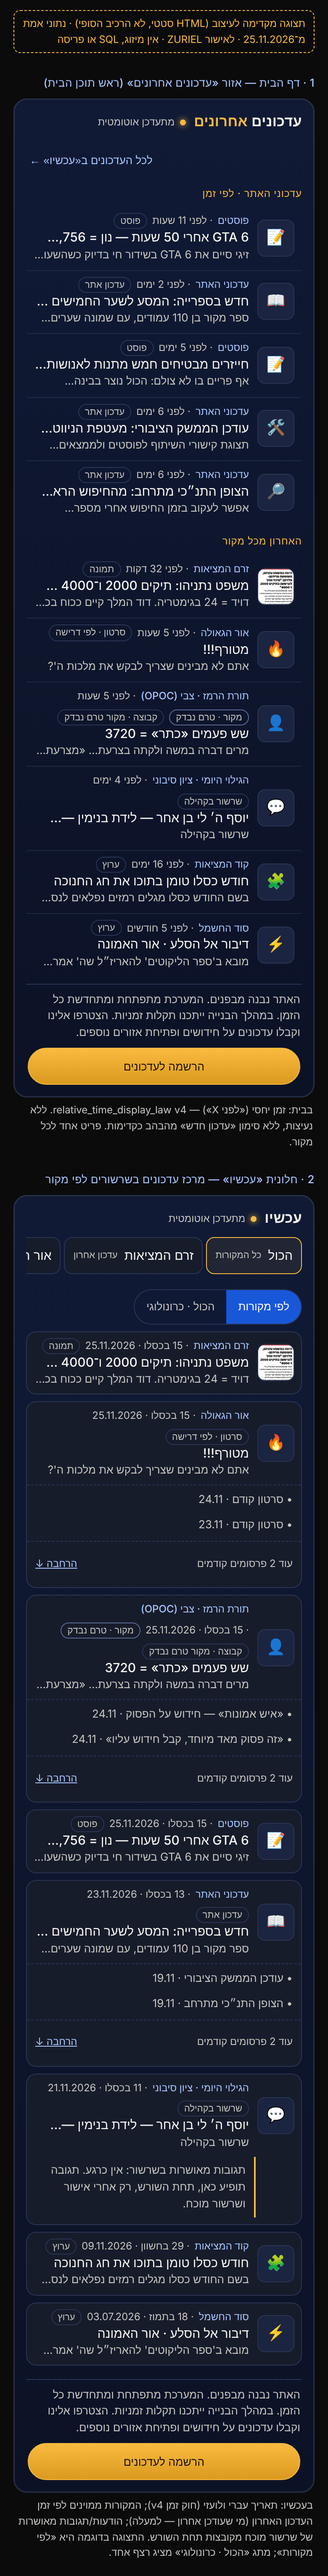
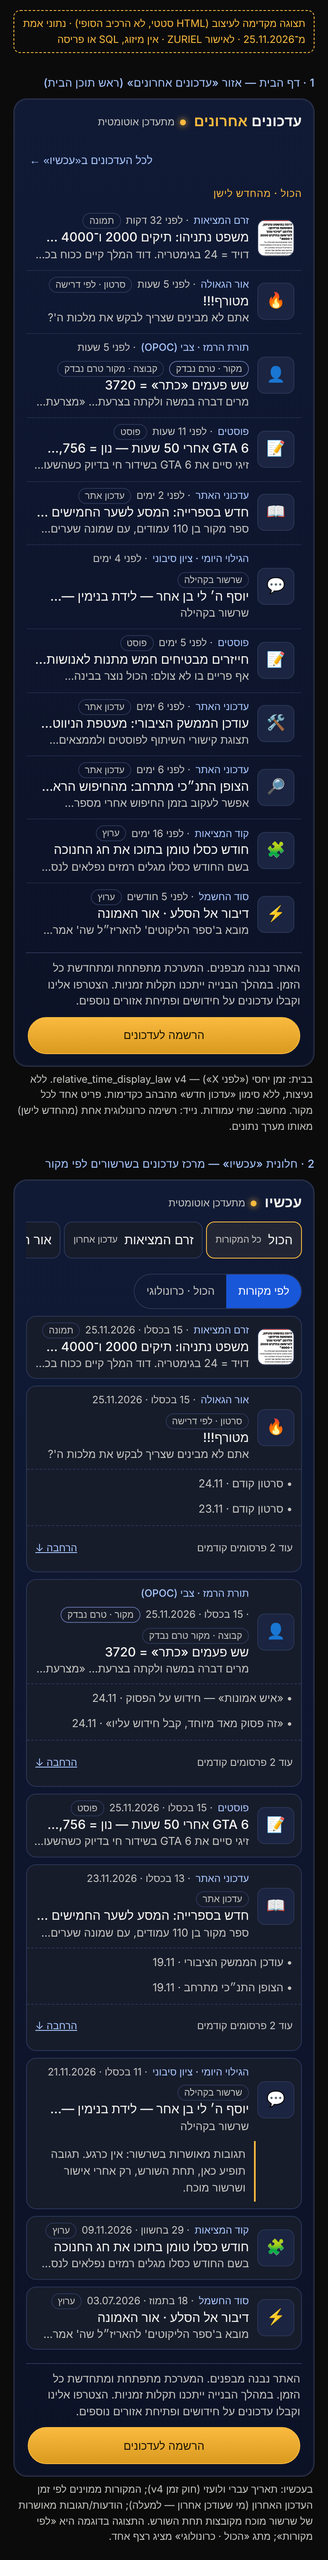
docs: Home mobile = one chronological list; desktop keeps two columns (ZURIEL clarification 25.11.2026)
Claude-Session: https://claude.ai/code/session_01H7739JjrHjUdzjPxUpre3R

diff --git a/docs/reviews/home-now-unified-20261125/preview.html b/docs/reviews/home-now-unified-20261125/preview.html
@@ -20,6 +20,7 @@ h2.pv-h{font-size:13px;color:var(--act);font-weight:500;margin:26px 0 8px;letter
 .live i{width:7px;height:7px;border-radius:50%;background:var(--gold);box-shadow:0 0 8px var(--gold)}
 .more{margin-inline-start:auto;font-size:13px;color:var(--act);background:none;border:0;cursor:pointer;min-height:44px;padding:0 4px}
 .cols{display:grid;grid-template-columns:1fr 1fr;gap:12px}
+.mob{display:none}
 .col>h4{margin:0 0 6px;font-size:12px;font-weight:500;color:var(--gold);letter-spacing:.04em}
 .row{display:grid;grid-template-columns:44px 1fr;gap:10px;align-items:center;padding:7px 8px;border-radius:10px;border:1px solid transparent;min-height:56px}
 .row+.row{border-top:1px solid rgba(42,53,85,.6);border-radius:0}
@@ -54,7 +55,7 @@ h2.pv-h{font-size:13px;color:var(--act);font-weight:500;margin:26px 0 8px;letter
 .note{font-size:12px;color:var(--txt2);margin:6px 2px}
 @media (max-width:760px){
  .wrap{padding:12px 16px}
- .cols{grid-template-columns:1fr}
+ .desk{display:none}.mob{display:block}
  .now{grid-template-columns:1fr}
  .srcpick{flex-direction:row;overflow-x:auto;padding-bottom:4px}
  .srcpick button{flex:0 0 auto}
@@ -70,13 +71,14 @@ h2.pv-h{font-size:13px;color:var(--act);font-weight:500;margin:26px 0 8px;letter
 <h2 class="pv-h">1 · דף הבית — אזור «עדכונים אחרונים» (ראש תוכן הבית)</h2>
 <section class="region" id="home" aria-label="עדכונים אחרונים">
  <div class="rh"><h3>עדכונים <b>אחרונים</b></h3><span class="live"><i></i>מתעדכן אוטומטית</span><button class="more">לכל העדכונים ב«עכשיו» ←</button></div>
- <div class="cols">
+ <div class="cols desk">
   <div class="col" id="home-site"><h4>עדכוני האתר · לפי זמן</h4></div>
   <div class="col" id="home-src"><h4>האחרון מכל מקור</h4></div>
  </div>
+ <div class="col mob" id="home-one"><h4>הכול · מהחדש לישן</h4></div>
  <div class="build" data-build-note><p>האתר נבנה מבפנים. המערכת מתפתחת ומתחדשת כל הזמן. במהלך הבנייה ייתכנו תקלות זמניות. הצטרפו אלינו וקבלו עדכונים על חידושים ופתיחת אזורים נוספים.</p><button class="cta">הרשמה לעדכונים</button></div>
 </section>
-<p class="note">בבית: זמן יחסי («לפני X») — relative_time_display_law v4. ללא נעיצות, ללא סימון «עדכון חדש» מהבהב כקדימות. פריט אחד לכל מקור.</p>
+<p class="note">בבית: זמן יחסי («לפני X») — relative_time_display_law v4. ללא נעיצות, ללא סימון «עדכון חדש» מהבהב כקדימות. פריט אחד לכל מקור. מחשב: שתי עמודות. נייד: רשימה כרונולוגית אחת (מהחדש לישן) מאותו מערך נתונים.</p>
 
 <h2 class="pv-h">2 · חלונית «עכשיו» — מרכז עדכונים בשרשורים לפי מקור</h2>
 <section class="region" id="now" aria-label="עכשיו">
@@ -116,6 +118,8 @@ const row=(x,t)=>`<div class="row">${th(x)}<div><div class="meta"><span class="s
 // Home: ימין = עדכוני האתר (כרונולוגי), שמאל = אחרון מכל מקור
 document.getElementById("home-site").insertAdjacentHTML("beforeend",D.filter(x=>x.site).sort((a,b)=>b.at.localeCompare(a.at)).map(x=>row(x,rel)).join(""));
 document.getElementById("home-src").insertAdjacentHTML("beforeend",D.filter(x=>!x.site).sort((a,b)=>b.at.localeCompare(a.at)).map(x=>row(x,rel)).join(""));
+// נייד: רשימה אחת מהחדש לישן, אותו מערך נתונים, בלי קדימות לפי סוג. פריט אחד לכל מקור; עדכוני אתר כרונולוגיים משולבים.
+document.getElementById("home-one").insertAdjacentHTML("beforeend",[...D.filter(x=>!x.site),...D.filter(x=>x.site)].sort((a,b)=>b.at.localeCompare(a.at)).map(x=>row(x,rel)).join(""));
 // Now
 const srcs=[["הכול",D.length,1],...D.filter(x=>!x.hide).map(x=>[x.src.split(" · ")[0],1,0])];
 document.getElementById("picker").innerHTML=srcs.slice(0,7).map(([n,c,p])=>`<button aria-pressed="${p?'true':'false'}">${n}<small>${p?'כל המקורות':'עדכון אחרון'}</small></button>`).join("");

diff --git a/docs/reviews/home-now-unified-20261125/README.md b/docs/reviews/home-now-unified-20261125/README.md
@@ -53,12 +53,12 @@
 **א. דף הבית — «עדכונים אחרונים» (ראש תוכן הבית)**
 - אזור אחד, חי, **בלי נעיצות ובלי קדימות מלאכותית**. מקור הנתונים: אותו קורא זרם יחיד.
 - **מחשב:** שתי עמודות. ימין: עדכוני האתר עצמו בסדר כרונולוגי (פוסטים חדשים ועדכוני `site-news`). שמאל: הפריט האחרון מכל מקור ציבורי מורשה (זרם המציאות, אור הגאולה, גילוי יומי/קבוצות וכותבים, ערוצים). **פריט אחד לכל מקור**, מתעדכן מעצמו כשמגיע פרסום חדש.
-- **טלפון:** אותם אזורים, שורות דקות, אחד אחרי השני.
+- **טלפון (הבהרה 25.11.2026):** שתי העמודות מאוחדות ל**רשימה כרונולוגית אחת**, מהחדש לישן, ללא נעיצות וללא קדימות לפי סוג תוכן. פרסום ציבורי אחרון, למשל תמונה שהועלתה לזרם המציאות, עולה לראש הרשימה עם תמונה ממוזערת. **במחשב** נשמרות שתי העמודות. אותו מערך נתונים והחלוקה לתצוגות היא טהורה בצד הלקוח (בלי קריאה נוספת).
 - כל שורה: תמונה ממוזערת (לא באור הגאולה, לפי הכלל הקיים), מקור, זמן יחסי («לפני X», בבית בלבד), סוג, כותרת ותקציר בשורה אחת. סרטונים: נגן לפי דרישה בלבד, בלי ניגון אוטומטי ובלי טעינה מוקדמת.
 - שורות עד ~56px, בלי «קומות» לפריט בודד (חוק שורה מלאה). מפת המציאות נשארת סדרת הדגל באזור שלה ואינה מקבלת עדיפות בזרם.
 
 **ב. «עכשיו» — מרכז עדכונים בשרשורים**
-- **שרשור לכל מקור**: בראשו העדכון האחרון; הרחבה פותחת פרסומים קודמים (נטענים רק בהרחבה). המקורות מסודרים לפי זמן העדכון האחרון.
+- **שרשור לכל מקור**: בראשו העדכון האחרון; הרחבה פותחת פרסומים קודמים (נטענים רק בהרחבה). **המקור שהתעדכן לאחרונה עולה לראש הרשימה** (המקורות ממוינים לפי זמן העדכון האחרון).
 - מתג **«לפי מקורות / הכול · כרונולוגי»**; בורר מקור (קבוצה / ערוץ / סדרה / אתר, לפי מפתח יציב, כבר קיים).
 - הודעות ותגובות של אותו **שרשור מוכח** (שורש + תגובות מאושרות) מוצגות יחד תחת השורש. אין חשיפת הודעות פרטיות, תגובות שטרם אושרו או חומר לא מורשה.
 - זהות מקור, כותב, תאריך (עברי+לועזי לפי חוק הזמן v4), «חדש» (לפי מצב «נראה» לכל צופה) וקישור מדויק נשמרים. סימון «חדש» הוא סימן בלבד, לא קדימות.
@@ -97,7 +97,7 @@
 
 ## 6. נוסח מוצע לחוזים (להכנסה רק לאחר אישור; ההיסטוריה נשמרת וההחלטות שהוחלפו מסומנות)
 
-**חוזה יסודות התוכן §12.9 — «סדר דף הבית — עדכון רביעי (ZURIEL 25.11.2026)».** «עדכונים אחרונים» הוא האזור הראשון בתוכן הבית: חי, ללא נעיצות וללא קדימות מלאכותית. במחשב: מימין עדכוני האתר בסדר כרונולוגי, משמאל הפריט האחרון מכל מקור ציבורי מורשה (זרם המציאות, אור הגאולה, כותבים, ערוצים, קבוצות), פריט אחד לכל מקור, מתעדכן אוטומטית. בטלפון: אותם אזורים בשורות קומפקטיות, בזה אחר זה. כל שורה: מקור, זמן יחסי (בבית בלבד), סוג, תמונה ממוזערת כשמותר, תקציר; סרטון לפי דרישה. אותו קורא זרם יחיד כמו «עכשיו». מפת המציאות נשארת סדרת הדגל באזור שלה ואינה מקבלת קדימות בזרם. הודעת הבנייה («האתר נבנה מבפנים…») עם «הרשמה לעדכונים» היא שורה תחתונה של האזור ומשתמשת ב־`NewsletterSignup2029`. **מחליף את** «עדכון שלישי — עכשיו · המרכז» לעניין הנעיצה, הבורר ושלוש השורות, ואת מקום `HomeBuildingNote`; HOME-01 נשמר לעניין הכרטיס המוביל.
+**חוזה יסודות התוכן §12.9 — «סדר דף הבית — עדכון רביעי (ZURIEL 25.11.2026)».** «עדכונים אחרונים» הוא האזור הראשון בתוכן הבית: חי, ללא נעיצות וללא קדימות מלאכותית. במחשב: שתי עמודות; מימין עדכוני האתר בסדר כרונולוגי, משמאל הפריט האחרון מכל מקור ציבורי מורשה (זרם המציאות, אור הגאולה, כותבים, ערוצים, קבוצות), פריט אחד לכל מקור, מתעדכן אוטומטית. בטלפון: רשימה כרונולוגית אחת מהחדש לישן, ללא נעיצות וללא קדימות לפי סוג; פרסום ציבורי אחרון, כולל תמונה בזרם המציאות, בראש הרשימה עם תמונה ממוזערת. כל שורה: מקור, זמן יחסי (בבית בלבד), סוג, תמונה ממוזערת כשמותר, תקציר; סרטון לפי דרישה. אותו קורא זרם יחיד כמו «עכשיו». מפת המציאות נשארת סדרת הדגל באזור שלה ואינה מקבלת קדימות בזרם. הודעת הבנייה («האתר נבנה מבפנים…») עם «הרשמה לעדכונים» היא שורה תחתונה של האזור ומשתמשת ב־`NewsletterSignup2029`. **מחליף את** «עדכון שלישי — עכשיו · המרכז» לעניין הנעיצה, הבורר ושלוש השורות, ואת מקום `HomeBuildingNote`; HOME-01 נשמר לעניין הכרטיס המוביל.
 
 **System Frame v2 §10.8 — «Now כמרכז שרשורים (ZURIEL 25.11.2026)».** «עכשיו» מציג שרשור קומפקטי לכל מקור: בראשו העדכון האחרון, עם הרחבה לפרסומים קודמים הנטענים רק בהרחבה; המקורות ממוינים לפי זמן העדכון האחרון; תצוגת «הכול» כרונולוגית לצד פתיחת מקור. הודעות ותגובות של שרשור מוכח מוצגות יחד תחת השורש; אין חשיפת הודעות פרטיות, תגובות שלא אושרו או חומר לא מורשה. **הוסרה קדימת הנעיצה** (תוספת 11.11) וקדימת סדרת מפת המציאות (16.11) מהזרם הציבורי החדש; המנגנונים נשארים לתחומים אחרים ואינם נמחקים. «חדש» הוא סימון בלבד. אותה הודעת בנייה והרשמה כמו בבית.
 
